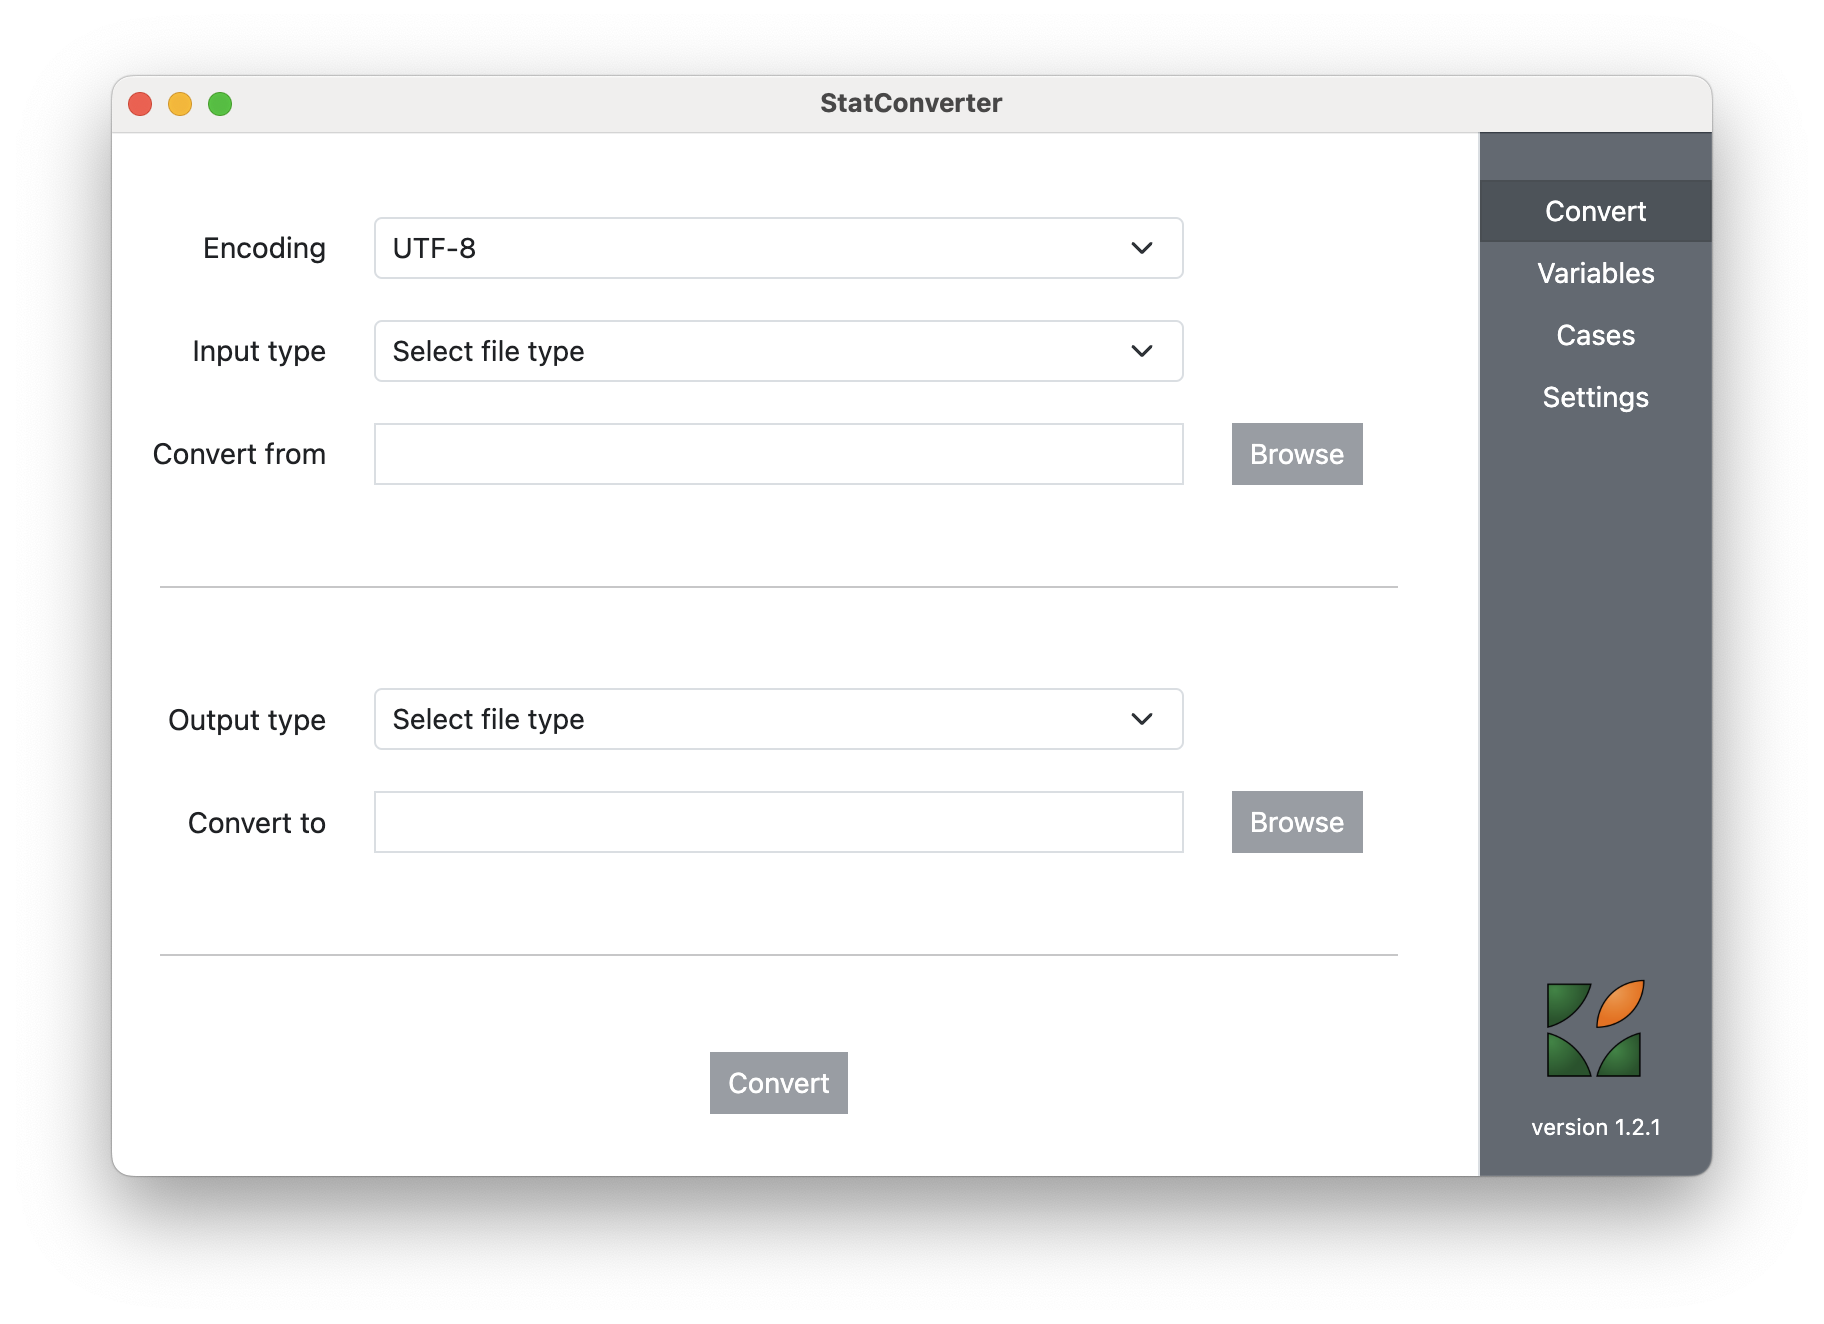
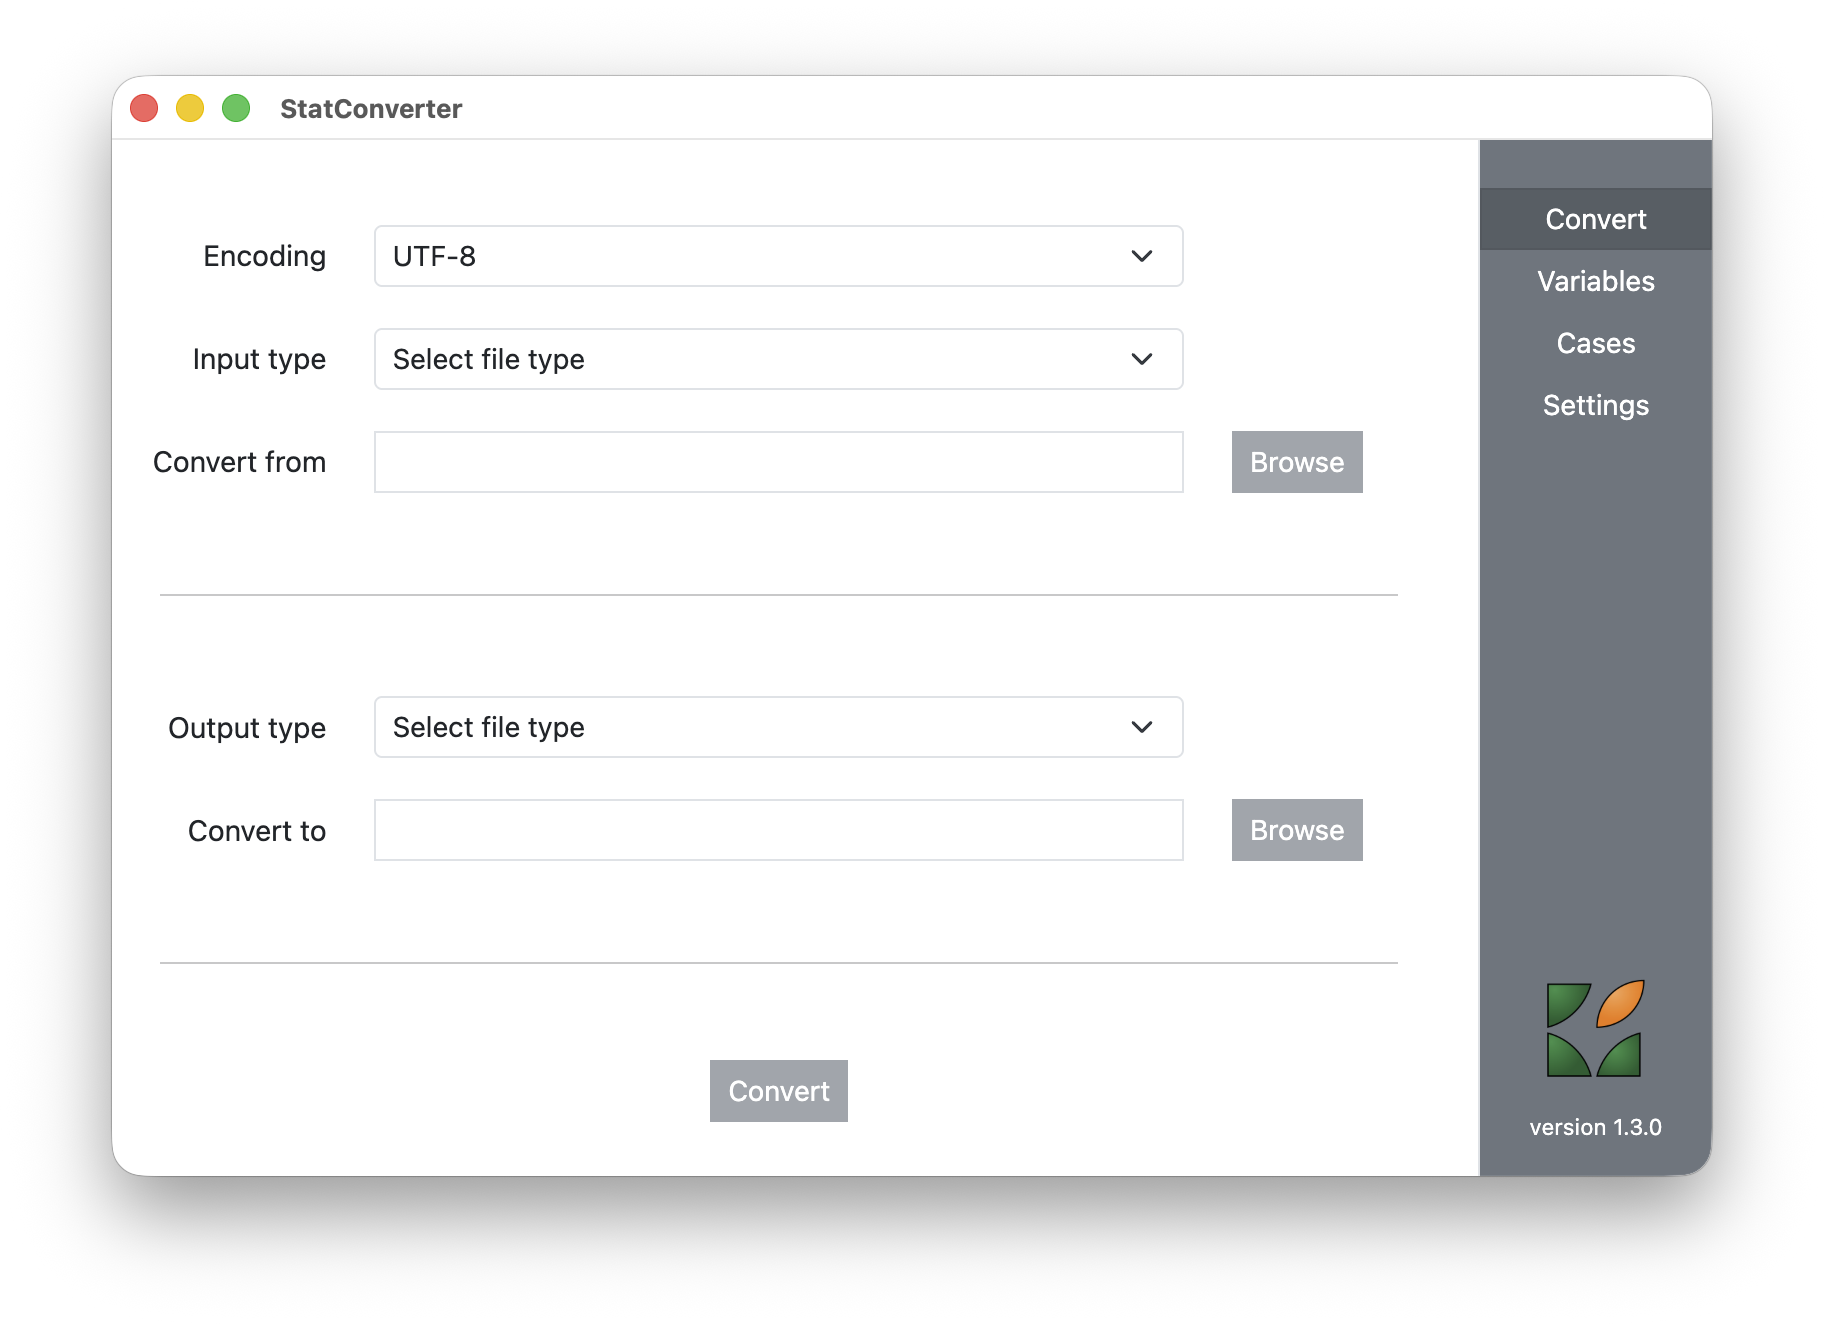
updated download links

diff --git a/docs/download.html b/docs/download.html
@@ -63,7 +63,7 @@
                     </p>
 
                     <p>
-                        <a href="https://github.com/RODA/StatConverter/releases/download/1.2.1/StatConverter_setup_1.2.1.exe?raw=true">StatConverter_setup_1.2.1.exe</a>
+                        <a href="https://github.com/RODA/StatConverter/releases/download/1.3.0/StatConverter_setup_1.3.0.exe?raw=true">StatConverter_setup_1.3.0.exe</a>
                     </p>
 
                     <p>&nbsp;</p>
@@ -72,7 +72,7 @@
                     </p>
 
                     <p>
-                        <a href="https://github.com/RODA/StatConverter/releases/download/1.2.1/StatConverter_1.2.1.zip?raw=true">StatConverter_1.2.1.zip</a>
+                        <a href="https://github.com/RODA/StatConverter/releases/download/1.3.0/StatConverter_1.3.0.zip?raw=true">StatConverter_1.3.0.zip</a>
                     </p>
 
 
@@ -83,7 +83,7 @@
                         Executable installation file (needs admininstrative privileges):
                     </p>
                     <p>
-                        <span style="color:#7a7a7a">StatConverter_1.2.1_setup_x86_32.exe</span>
+                        <span style="color:#7a7a7a">StatConverter_1.3.0_setup_x86_32.exe</span>
                     </p>
 
                     <p>&nbsp;</p>
@@ -92,7 +92,7 @@
                     </p>
 
                     <p>
-                        <span style="color:#7a7a7a">StatConverter_1.2.1_x86_32.zip</span>
+                        <span style="color:#7a7a7a">StatConverter_1.3.0_x86_32.zip</span>
                     </p> -->
 
                     <p>&nbsp;</p>
@@ -107,7 +107,7 @@
                     <p>For Intel architectures (Big Sur and higher):</p>
 
                     <p>
-                        <a href="https://github.com/RODA/StatConverter/releases/download/1.2.1/StatConverter_1.2.1_intel.dmg?raw=true">StatConverter_1.2.1_intel.dmg</a>
+                        <a href="https://github.com/RODA/StatConverter/releases/download/1.3.0/StatConverter_1.3.0_intel.dmg?raw=true">StatConverter_1.3.0_intel.dmg</a>
                     </p>
 
                     <p>&nbsp;</p>
@@ -115,7 +115,7 @@
                     <p>For ARM based architectures:</p>
 
                     <p>
-                        <a href="https://github.com/RODA/StatConverter/releases/download/1.2.1/StatConverter_1.2.1_silicon.dmg?raw=true">StatConverter_1.2.1_silicon.dmg</a>
+                        <a href="https://github.com/RODA/StatConverter/releases/download/1.3.0/StatConverter_1.3.0_silicon.dmg?raw=true">StatConverter_1.3.0_silicon.dmg</a>
                     </p>
 
                     <!-- <p>&nbsp;</p>
@@ -140,14 +140,14 @@
                     <p>For Intel architectures:</p>
 
                     <p>
-                        <a href="https://github.com/RODA/StatConverter/releases/download/1.2.1/StatConverter_1.2.1_intel.AppImage?raw=true">StatConverter_1.2.1_intel.AppImage</a>
+                        <a href="https://github.com/RODA/StatConverter/releases/download/1.3.0/StatConverter_1.3.0_intel.AppImage?raw=true">StatConverter_1.3.0_intel.AppImage</a>
                     </p>
 
                     <p>&nbsp;</p>
                     <p>For ARM based architectures:</p>
 
                     <p>
-                        <a href="https://github.com/RODA/StatConverter/releases/download/1.2.1/StatConverter_1.2.1_silicon.AppImage?raw=true">StatConverter_1.2.1_silicon.AppImage</a>
+                        <a href="https://github.com/RODA/StatConverter/releases/download/1.3.0/StatConverter_1.3.0_silicon.AppImage?raw=true">StatConverter_1.3.0_silicon.AppImage</a>
                     </p>
 
                     <p>&nbsp;</p>

diff --git a/src/index.html b/src/index.html
@@ -456,7 +456,7 @@
 				<div class="text-white text-center flex" style="font-size: 0.7rem">
 					<div class="align-self-end pb-3">
 						<!-- <a href="#" class="text-white" id="checkForUpdates">Check for Updates</a><br /> -->
-						version 1.2.1
+						version 1.3.0
 					</div>
 				</div>
 			</div>
